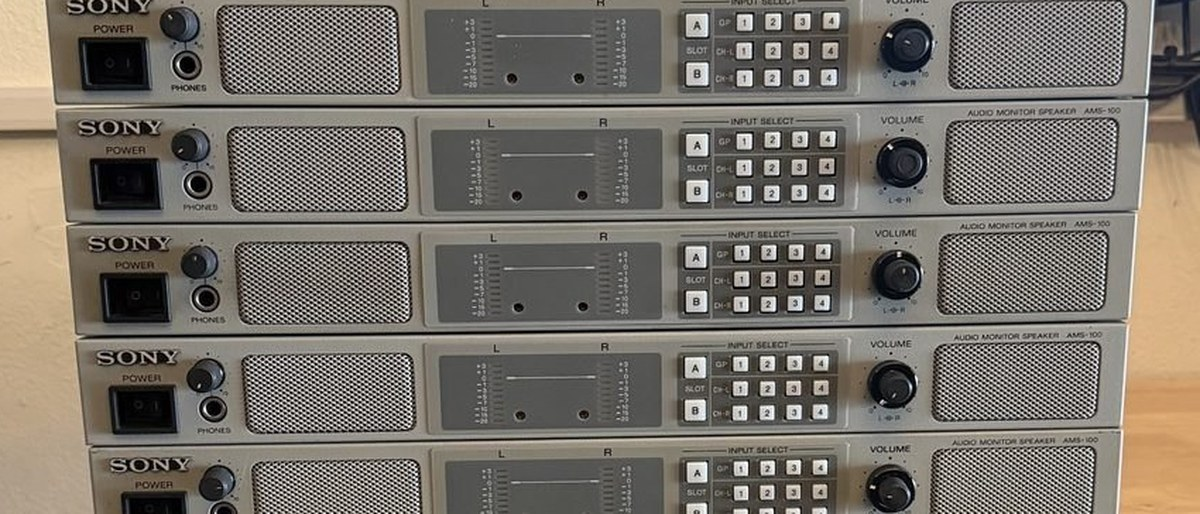
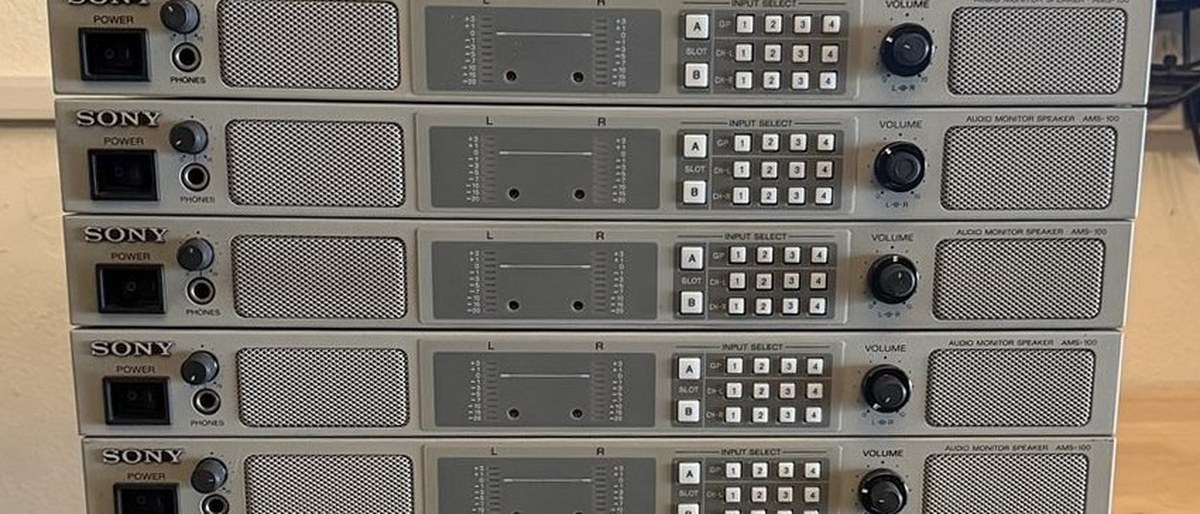
Straighten the AMS-100 stack photo and recut the story card from it

diff --git a/projects.html b/projects.html
@@ -166,7 +166,7 @@
       <figure class="shot"><img src="media/thumbs/ams-3-pair.jpg" data-full="media/2026/ams-3-pair.jpg" alt="Two Sony AMS-3 audio monitor speakers side by side, showing their deep black heatsink fins" loading="lazy" width="800" height="1067"><figcaption><b>Unboxed</b> — both units on arrival, fins out. Sony built these like power amps because, essentially, they are</figcaption></figure>
       <figure class="shot"><img src="media/thumbs/ams-3-heatsinks.jpg" data-full="media/2026/ams-3-heatsinks.jpg" alt="Rear view of a Sony AMS-3 showing full-width heatsink fins running down both sides of the chassis" loading="lazy" width="800" height="1067"><figcaption><b>All heatsink</b> — the back half of an AMS-3, which explains most of the 35&nbsp;lbs</figcaption></figure>
       <figure class="shot"><video src="media/video/ams-3-arrival.mp4" poster="media/2026/ams-3-arrival-poster.jpg" controls loop playsinline preload="metadata"></video><figcaption><b>Powered up</b> — first light on the bench, riding on top of a PVM. Turn the sound on: that's the fan you're hearing, not the game</figcaption></figure>
-      <figure class="shot"><img src="media/thumbs/ams-100-lineup.jpg?v=2" data-full="media/2026/ams-100-lineup.jpg?v=2" alt="Seven Sony AMS-100 audio monitor speakers stacked on a workbench, front panels facing out" loading="lazy" width="800" height="655"><figcaption><b>The AMS-100 stack</b> — Sony's rack-width audio monitors, mustered on the bench for inspection</figcaption></figure>
+      <figure class="shot"><img src="media/thumbs/ams-100-lineup.jpg?v=3" data-full="media/2026/ams-100-lineup.jpg?v=3" alt="Seven Sony AMS-100 audio monitor speakers stacked on a workbench, front panels facing out" loading="lazy" width="800" height="651"><figcaption><b>The AMS-100 stack</b> — Sony's rack-width audio monitors, mustered on the bench for inspection</figcaption></figure>
       <figure class="shot"><img src="media/thumbs/bvm-20e1u-crosshatch.jpg" data-full="media/2026/bvm-20e1u-crosshatch.jpg" alt="Sony BVM-20E1U broadcast monitor displaying a crosshatch calibration pattern with an AMS-100 speaker on top" loading="lazy" width="800" height="888"><figcaption><b>Calibration hours</b> — crosshatch up on the BVM-20E1U</figcaption></figure>
       <figure class="shot"><img src="media/thumbs/garage-wide.jpg" data-full="media/2026/garage-wide.jpg" alt="The garage arcade mid-project: cabinets, pro monitors on the floor, decks overhead, and work in progress everywhere" loading="lazy" width="800" height="1067"><figcaption><b>Project mode</b> — BVMs on the floor and parts everywhere, a rare sight: the arcade is always tidy, except for the glorious few days a big project takes over</figcaption></figure>
     </div>

diff --git a/monitors.html b/monitors.html
@@ -217,7 +217,7 @@
       </div>
     </div>
     <div class="grid" style="grid-template-columns:repeat(2,minmax(0,1fr));margin-top:1rem">
-      <figure class="shot"><img src="media/thumbs/ams-100-lineup.jpg?v=2" data-full="media/2026/ams-100-lineup.jpg?v=2" alt="Seven Sony AMS-100 audio monitor speakers lined up on a wooden bench" loading="lazy" width="800" height="655"><figcaption><b>The AMS-100 lineup</b> — mustered for inspection</figcaption></figure>
+      <figure class="shot"><img src="media/thumbs/ams-100-lineup.jpg?v=3" data-full="media/2026/ams-100-lineup.jpg?v=3" alt="Seven Sony AMS-100 audio monitor speakers lined up on a wooden bench" loading="lazy" width="800" height="651"><figcaption><b>The AMS-100 lineup</b> — mustered for inspection</figcaption></figure>
       <div>
         <figure class="shot"><img src="media/thumbs/ams-size-front-v2.jpg" data-full="media/2026/ams-size-front-v2.jpg" alt="A Sony AMS-100 audio monitor speaker stacked on top of the much larger Sony AMS-3, both front panels facing out" loading="lazy" width="800" height="292"><figcaption><b>Ancestor and descendant</b> — an AMS-100 riding on an AMS-3. <a href="ams-3-vs-ams-100.html">Stacked, in detail →</a></figcaption></figure>
         <figure class="shot"><img src="media/thumbs/ams-size-profile.jpg" data-full="media/2026/ams-size-profile.jpg" alt="The same two Sony units from the side, the AMS-3's deep black heatsink fins running beneath the AMS-100's flat lid" loading="lazy" width="800" height="308"><figcaption><b>In profile</b> — the AMS-3's heatsink wall, and where the weight went</figcaption></figure>

diff --git a/stories.html b/stories.html
@@ -134,7 +134,7 @@
 
   <section>
     <a class="card linked featured" href="ams-100-monograph.html">
-      <img class="cthumb" src="media/story-thumbs/story-ams-100-monograph.jpg?v=2" alt="" width="1200" height="514">
+      <img class="cthumb" src="media/story-thumbs/story-ams-100-monograph.jpg?v=3" alt="" width="1200" height="514">
       <span class="badge new">New</span><span class="badge done">Monograph</span>
       <h3>The Sony AMS-100 Has No Written History</h3>
       <p>A 1RU broadcast confidence monitor with two option slots, three input boards and not one article written about it anywhere. This is the first: seven documented frames, twelve boards, the service internals, and a market that has almost never been priced.</p>
